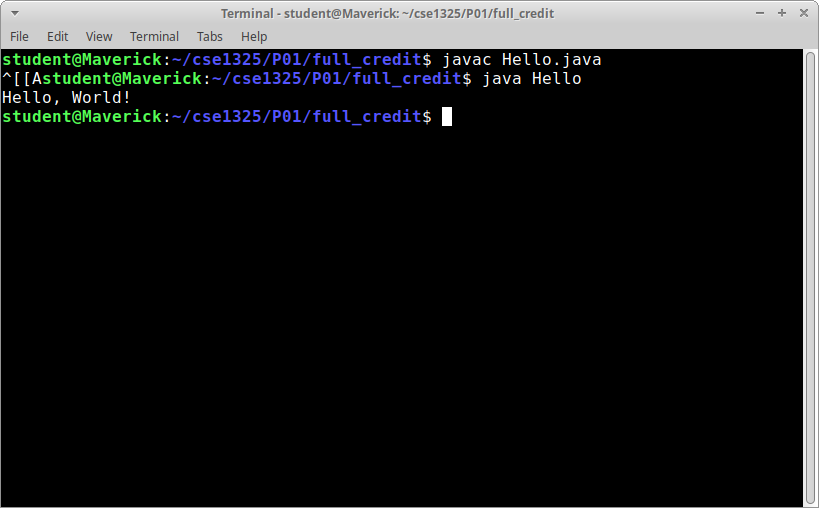
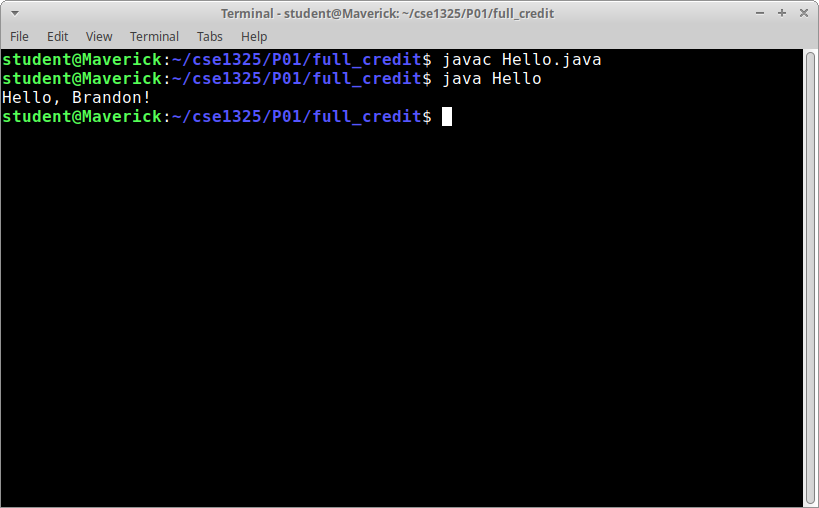
P01 Full Credit

Changed region(s): [[0.0, 0.1181, 0.7326, 0.2067]]

diff --git a/P01/full_credit/Hello.java b/P01/full_credit/Hello.java
@@ -1,6 +1,6 @@
 public class Hello
 {
 	public static void main(String[] args){
-		System.out.println("Hello, World!");
+		System.out.println("Hello, Brandon!");
 	}
 }
